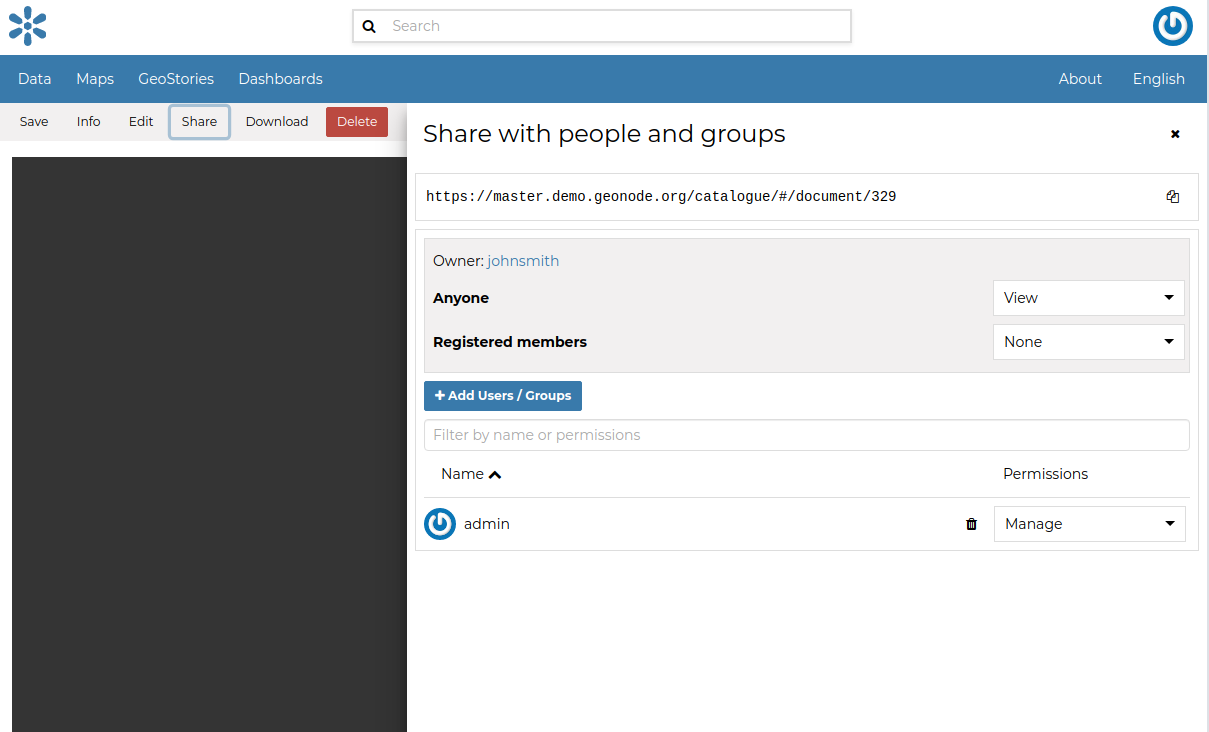
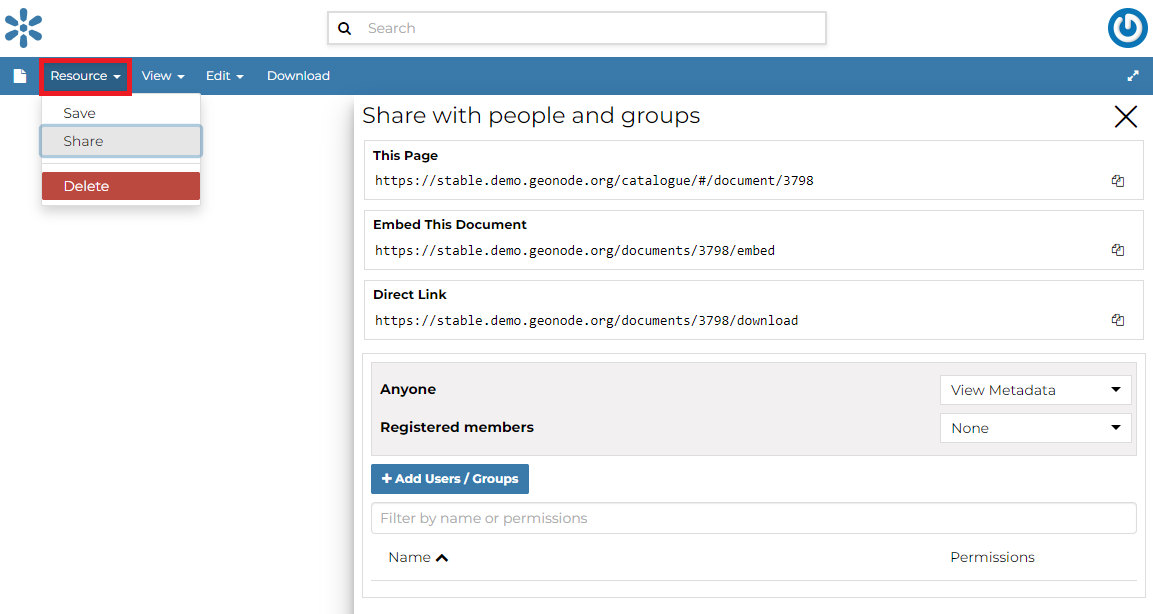
update_311

diff --git a/usage/data/data_types.rst b/usage/data/data_types.rst
@@ -5,14 +5,16 @@ Data Types
 
 | GeoNode welcome page shows a variety of information about the current GeoNode instance.
 | You can explore the existing data using many search tools and filters (see :ref:`finding-data`) or through the links of the navigation bar at the top of the page.
-| There are three main types of resources that GeoNode can manage:
+| There are five main types of resources that GeoNode can manage:
 
-#. Documents
 #. Datasets
 #. Maps
+#. Documents
+#. GeoStories
+#. Dashboards
 
-Datasets and Documents can be accessed from the :guilabel:`Data` menu of the navigation bar.
-The :guilabel:`Maps` menu lets you filter only maps in the available resource. This applies to other existing menu items like :guilabel:`GeoStories`.
+
+Each resource type has its own menu and can be reached through :guilabel:`Datasets`, :guilabel:`Maps`, :guilabel:`Documents`, :guilabel:`GeoStories` and :guilabel:`Dashboards` buttons on the navigation bar
 
 .. note:: :guilabel:`GeoStories` and :guilabel:`Dashboards` In the screenshot below are GeoApp resouce types which are added by the client.
 
@@ -22,14 +24,6 @@ The :guilabel:`Maps` menu lets you filter only maps in the available resource. T
      *Data menu*
 
 .. _document-data-type:
-
-Documents
----------
-
-| GeoNode allows to publish tabular and text data and to manage metadata and associated documents.
-| Documents can be uploaded directly from your disk (see :ref:`uploading-documents` for further information).
-| The following documents types are allowed: `txt, .log, .doc, .docx, .ods, .odt, .sld, .qml, .xls, .xlsx, .xml, .bm, .bmp, .dwg, .dxf, .fif, .gif, .jpg, .jpe, .jpeg, .png, .tif, .tiff, .pbm, .odp, .ppt, .pptx, .pdf, .tar, .tgz, .rar, .gz, .7z, .zip, .aif, .aifc, .aiff, .au, .mp3, .mpga, .wav, .afl, .avi, .avs, .fli, .mp2, .mp4, .mpg, .ogg, .webm, .3gp, .flv, .vdo, .glb, .pcd, .gltf`.
-| Through the document detailed page is possible to view, download and manage a document.
 
 Datasets
 ------
@@ -47,9 +41,29 @@ Maps
 
 | Maps are a primary component of GeoNode.
 | Maps are comprised of various datasets and their styles. Datasets can be both local datasets in GeoNode as well as remote datasets either served from other WMS servers or by web service datasets such as Google or MapQuest.
-
 GeoNode maps also contain other information such as map zoom and extent, dataset ordering, and style.
 
 You can create a map based on uploaded datasets, combine them with some existing datasets and a remote web service dataset, share the resulting map for public viewing.
 Once the data has been uploaded, GeoNode lets the user search for it geographically or via keywords and create maps.
 All the datasets are automatically reprojected to web mercator for maps display, making it possible to use popular base maps such as `OpenStreetMap <https://www.openstreetmap.org>`_.
+
+Documents
+---------
+
+| GeoNode allows to publish tabular and text data and to manage metadata and associated documents.
+| Documents can be uploaded directly from your disk (see :ref:`uploading-documents` for further information).
+| The following documents types are allowed: `txt, .log, .doc, .docx, .ods, .odt, .sld, .qml, .xls, .xlsx, .xml, .bm, .bmp, .dwg, .dxf, .fif, .gif, .jpg, .jpe, .jpeg, .png, .tif, .tiff, .pbm, .odp, .ppt, .pptx, .pdf, .tar, .tgz, .rar, .gz, .7z, .zip, .aif, .aifc, .aiff, .au, .mp3, .mpga, .wav, .afl, .avi, .avs, .fli, .mp2, .mp4, .mpg, .ogg, .webm, .3gp, .flv, .vdo, .glb, .pcd, .gltf`.
+| Through the document detailed page is possible to view, download and manage a document.
+
+GeoStories
+---------
+
+| GeoStory is a MapStore tool integrated in GeoNode that provides the user a way to create inspiring and immersive stories by combining text, interactive maps, and other multimedia content like images and video or other third party contents. Through this tool you can simply tell your stories on the web and then publish and share them with different groups of GeoNode users or make them public to everyone around the world.
+
+Dashboard
+---------
+
+| Dashboard is a MapStore tool integrated in GeoNode that provides the user with a space to add many Widgets, such as charts, maps, tables, texts and counters, and can create connections between them in order to:
+| - Provide an overview to better visualize a specific data context
+| - Interact spatially and analytically with the data by creating connections between widgets
+| - Perform analysis on involved data/layers

diff --git a/usage/data/finding_data.rst b/usage/data/finding_data.rst
@@ -6,7 +6,7 @@ Finding Data
 | This section will guide you to navigate GeoNode to find datasets, maps and documents and other resource types by using different routes, filters and search functions.
 | On every page you can find some quick search tool.
 
-The *Search* box in the navigation bar (see the picture below) let you type a text and find all the data which have to deal with that text.
+The *Search* box in the navigation bar (see the picture below) let you type a text and find all the resource which have to deal with that text.
 
 .. figure:: img/search_tool.png
      :align: center
@@ -21,7 +21,7 @@ When you trigger a search you are brought to the *Search* page which shows you t
      *The Search page*
 
 | This page contains a wealth of options for customizing a search for various information on GeoNode. This search form allows for much more fine-tuned searches than the simple search box is available at the top of every page.
-| It is possible to search and filter data by Text, Types, Categories, Keywords, Owners, Regions or Extent.
+| It is possible to search and filter data by Text, Types, Categories, Keywords, Owners, Regions, Group, Limitations on public access, Date and Extent.
 
 Try to set some filter and see how the resulting data list changes accordingly. An interesting type of filter is *EXTENT*: you can apply a spatial filter by moving or zooming a map within a box as shown in the picture below.
 

diff --git a/usage/other_apps/geostory/index.rst b/usage/other_apps/geostory/index.rst
@@ -6,12 +6,17 @@ GeoStory
 GeoStory is a MapStore tool integrated in GeoNode that provides the user a way to create inspiring and immersive stories by combining text, interactive maps, and other multimedia content like images and video or other third party contents.
 Through this tool you can simply tell your stories on the web and then publish and share them with different groups of GeoNode users or make them public to everyone around the world.
 
-To build a new GeoStory go to :guilabel:`Add Resource` option on the resource page and choose option *Create geostory*.
+To build a new GeoStory go to :guilabel:`Add Resource` option on the *All Resources* page and choose option *Create geostory* or select :guilabel:`New` option on the *Geostories* page
 
-.. figure:: img/new_geostory.png
-    :align: center
+  .. figure:: img/create_geostory_link.png
+      :align: center
 
-    *New GeoStory Apps option*
+      *Create geostory from All Resources page*
+
+.. figure:: img/create_geostory.png
+      :align: center
+
+      *Create geostory from Geostories page*
 
 Now you landed on the GeoStory edition page that is composed of the following sections:
 

diff --git a/usage/managing_documents/document_info.rst b/usage/managing_documents/document_info.rst
@@ -68,23 +68,22 @@ As soon as a document is opened, the **Info** panel is shown. It reports the doc
     *Document Info*
 
 
-Through the :guilabel:`View`, it should look as follows.
- button it is possible to visualize the metadata of the document
+
+Selecting *View Metadata* from the :guilabel:`View` button it is possible to visualize the metadata of the document
 
 .. figure:: img/view_metadata.png
     :align: center
+    
     *Document Metadata*
 
-The :guilabel:`Share`, it should look as follows.
- link provides the document link to share.
+Under the :guilabel:`Resource` button, it is possible to select the *Share* option to provides the document link to share.
 
 .. figure:: img/document_sharing.png
     :align: center
 
     *Document Sharing*
 
-If you want to download the document, click on the :guilabel:`Download`, it should look as follows.
- link in the menu and the document will be downloaded automatically.
+If you want to download the document, click on the :guilabel:`Download` button and the document will be downloaded automatically.
 
 .. figure:: img/document_download.png
     :align: center

diff --git a/usage/managing_datasets/uploading_datasets.rst b/usage/managing_datasets/uploading_datasets.rst
@@ -6,12 +6,21 @@ Datasets Uploading
 | The most important resource type in GeoNode is the *Dataset*. A dataset represents spatial information so it can be displayed inside a map.
 | To better understand what we are talking about lets upload your first dataset.
 
-The *Dataset Uploading* page can be reached from the :guilabel:`Upload dataset` link of the :guilabel:`Add Resource` menu above the resources list page.
+It is possible to upload a *Datasets* in two ways:
 
-.. figure:: img/upload_dataset_link.png
+- From the :guilabel:`All Resources` page, by clicking *Add Resource* which displays a list including `Upload dataset` link:
+
+  .. figure:: img/upload_dataset_link.png
      :align: center
 
-     *Link for Datasets Uploading*
+     *Dataset Upload from All Resources page*
+
+- From the :guilabel:`Datasets` page, by clicking on *New* which displays a list including `Upload dataset` link:
+
+.. figure:: img/upload_dataset.png
+      :align: center
+
+      *Dataset Upload from Datasets page*
 
 The *Datasets Uploading* page looks like the one in the picture below.
 

diff --git a/usage/managing_maps/creating_maps.rst b/usage/managing_maps/creating_maps.rst
@@ -7,19 +7,26 @@ In this section, we’ll create a *Map* using some uploaded datasets, combine th
 
 In order to create new maps you can use:
 
-* The :guilabel:`Create map` listed after clicking the :guilabel:`Create new` link on the menu above the resources list page.
+* The :guilabel:`Create map` listed after clicking the :guilabel:`Add Resource` button on the *All Resources* list page.
 
   .. figure:: img/create_map_link.png
        :align: center
 
-       *The Create Map link*
+       *The Create Map from All Resources page*
+
+- The :guilabel:`New` button after clicking the :guilabel:`Maps` button on the menu bar.
+
+  .. figure:: img/new_map_link.png
+      :align: center
+
+      *The Create Map from Maps page*
 
 * The :guilabel:`Create map` link in the *Dataset Page* (it creates a map using a specific dataset)
 
   .. figure:: img/create_map_button.png
        :align: center
 
-       *The Create map link from dataset*
+       *The Create map from dataset*
 
 The new *Map* will open in a *Map Viewer* like the one in the picture below.
 

diff --git a/usage/other_apps/dashboard/index.rst b/usage/other_apps/dashboard/index.rst
@@ -9,12 +9,17 @@ Dashboard is a MapStore tool integrated in GeoNode that provides the user with a
 * Interact spatially and analytically with the data by creating connections between widgets
 * Perform analysis on involved data/layers
 
-To build a new Dashboard go to :guilabel:`Add Resource` option on the resource page and choose option *Create dashboard*.
+To build a new Dashboard go to :guilabel:`Add Resource` option on the *All Resources* page and choose option *Create dashboard* or select :guilabel:`New` option on the *Dashboards* page
 
-.. figure:: img/new_dashboard.png
-    :align: center
+  .. figure:: img/create_dashboard_link.png
+      :align: center
 
-    *New Dashboard Apps option*
+      *Create dashboard from All Resources page*
+
+.. figure:: img/create_dashboard.png
+      :align: center
+
+      *Create dashboard from Dashboards page*
 
 Now you landed on the Dashboard edition page that is composed of the following sections:
 

diff --git a/usage/managing_documents/uploading_documents.rst b/usage/managing_documents/uploading_documents.rst
@@ -7,12 +7,21 @@ GeoNode allows to share reports, conceptual notes, posters, spreadsheets, etc. A
 
 .. warning:: Only authenticated users can upload data into GeoNode.
 
-*Documents* uploading is accessible by clicking *Create new* which displays a list including `upload document link`:
+It is possible to upload a *Documents* in two ways:
+
+- From the :guilabel:`All Resources` page, by clicking *Add Resource* which displays a list including `Upload document` link:
 
   .. figure:: img/upload_document_link.png
       :align: center
 
-      *Document Upload link*
+      *Document Upload from All Resources page*
+
+- From the :guilabel:`Documents` page, by clicking on *New* button.
+
+.. figure:: img/upload_document.png
+      :align: center
+
+      *Document Upload from Documents page*
 
 The *Document Upload* page looks like the one shown in the picture below.
 

diff --git a/usage/managing_datasets/dataset_editing.rst b/usage/managing_datasets/dataset_editing.rst
@@ -12,12 +12,11 @@ The :guilabel:`Edit` link in the menu of the *Dataset Page*  opens a list of opt
 
 In that options list, you can see three options listed as:
 
-1. *Edit Info*
-2. *Edit Data* 
-3. *Edit Styles* 
-4. *Edit Metadata*
-5. *Upload Style*
-6. *Upload Metadata*
+1. *Edit Data* 
+2. *Edit Styles* 
+3. *Edit Metadata*
+4. *Upload Style*
+5. *Upload Metadata*
 
 
 In this section you will learn how to edit a *Dataset*, and its data. See :ref:`dataset-metadata` to learn how to explore the dataset *Metadata*, how to upload and edit them. The *Styles* will be covered in a dedicated section, see :ref:`dataset-style`.

diff --git a/usage/managing_datasets/dataset_permissions.rst b/usage/managing_datasets/dataset_permissions.rst
@@ -3,7 +3,7 @@
 Share Options
 =============
 
-In order to modify the Dataset *Share options* settings, on the detail page of the dataset click the :guilabel:`Share` link in the menu. By default only owners can edit and manage datasets, anyone can view them.
+In order to modify the Dataset *Share options* settings, on the detail page of the dataset click the :guilabel:`Share` link in the :guilabel:`Resource` menu. By default only owners can edit and manage datasets, anyone can view them.
 
 .. figure:: img/change_dataset_permissions.png
     :align: center

diff --git a/usage/managing_datasets/using_remote_services.rst b/usage/managing_datasets/using_remote_services.rst
@@ -6,7 +6,7 @@ In this section you will learn how to add a new service and how to load resource
 
 Let's try it!
 
-Click on the :guilabel:`Remote Services` link of the :guilabel:`Add Resource` menu in the navigation bar.
+Click on the :guilabel:`Remote Services` link of the :guilabel:`New` menu in the navigation bar.
 
 .. figure:: img/remote_services_link.png
     :align: center
